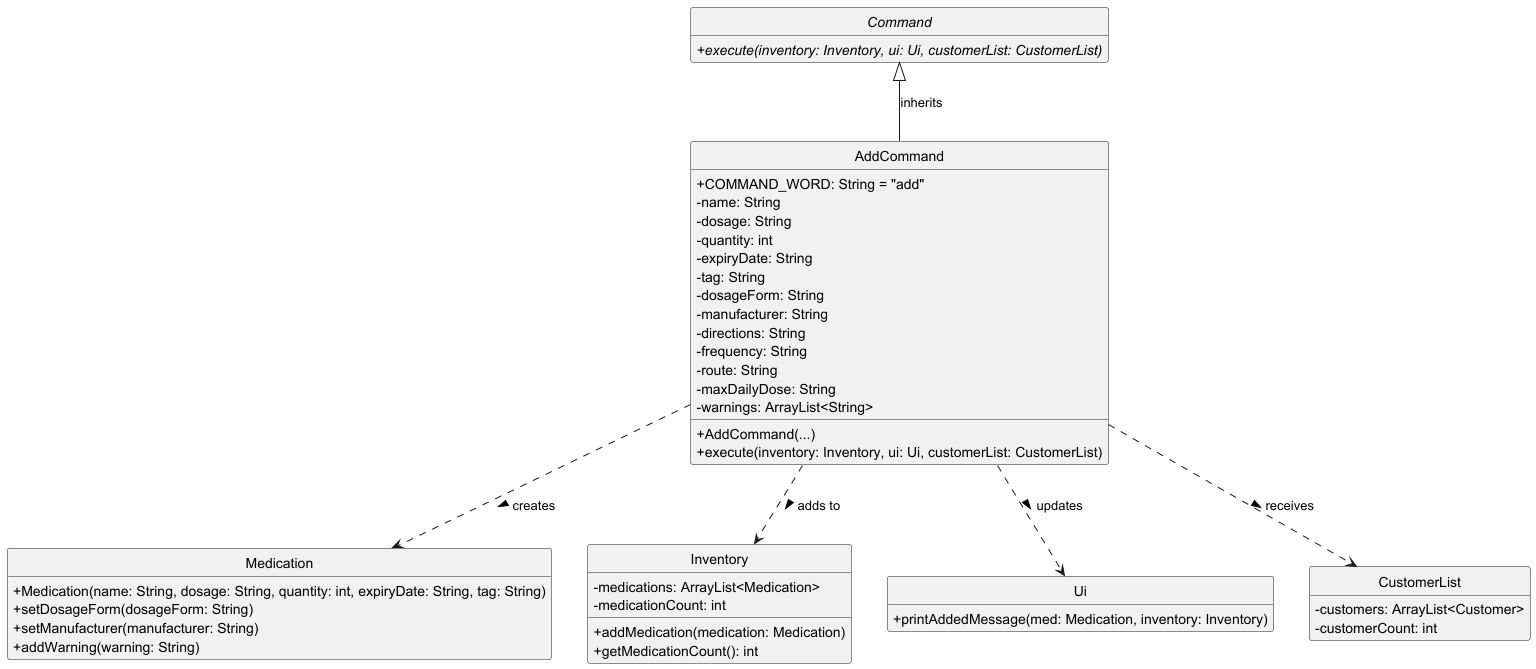
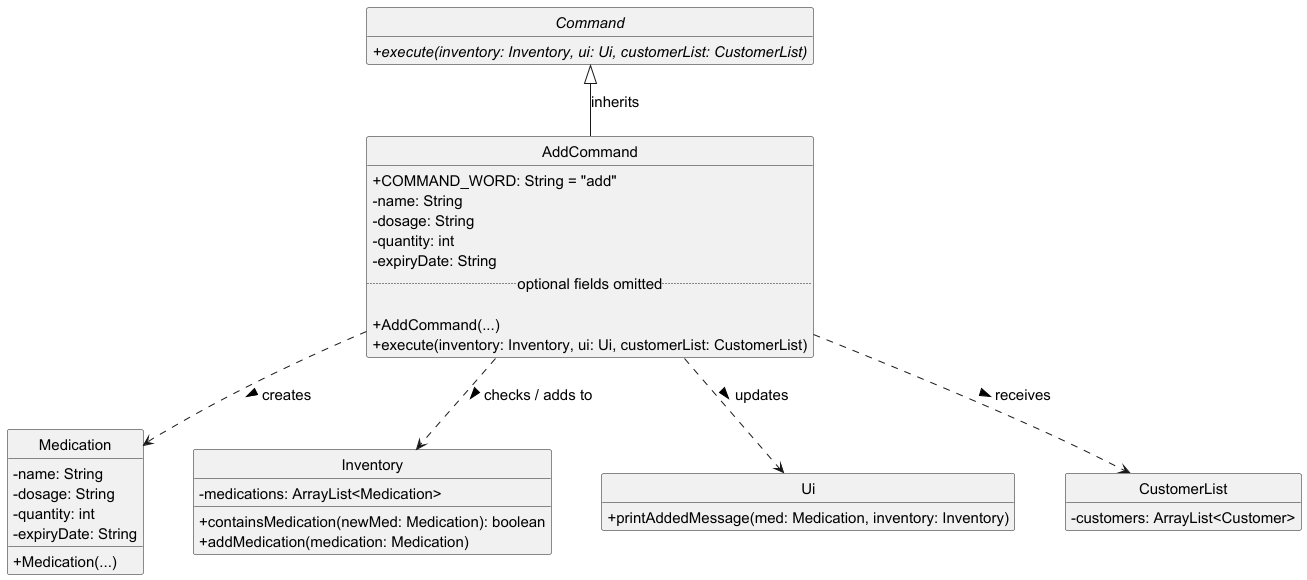
Update DG with finalized details for AddCommand

diff --git a/docs/DeveloperGuide.md b/docs/DeveloperGuide.md
@@ -63,8 +63,6 @@ Beyond the Java Standard Library, no other libraries were used. No code was reus
 4. Run `java -jar pharmatracker.jar` to start the application.
 5. Type a command and press Enter to execute it. Type `help` to see available commands.
 
-> **Note for developers:** Run `.\gradlew run` (Windows) or `./gradlew run` (macOS/Linux) from the project root to launch the app.
-
 ## Design
 
 ### Architecture
@@ -75,17 +73,17 @@ command logic, and saves any modifications to local storage.
 
 The key components of the system are outlined below. 
 
-| Component            | Responsibility                                                                                                                                                      |
-|:---------------------|:--------------------------------------------------------------------------------------------------------------------------------------------------------------------|
-| `PharmaTracker`      | Initializes the application components and manages the main execution loop (read → parse → execute → save).                                                         |
-| `Parser`             | Analyzes raw input strings from the user and translates them into specific, executable `Command` objects.                                                           |
-| `Command` (abstract) | Defines the required `execute()` contract. Concrete command classes (e.g., `AddCommand`, `DispenseCommand`) implement this to interact with the application's data. |
-| `Inventory`          | The in-memory data structure that stores and manages all `Medication` records.                                                                                      |
-| `CustomerList`       | The in-memory data structure that manages registered `Customer` profiles and their dispensing histories.                                                            |
-| `AuthService`        | Manages user registration/login/logout, password verification, and current session state.                                                                            |
-| `RestockAlertService`| Evaluates stock against medication thresholds, tracks active alerts, and maintains alert history.                                                                    |
-| `Storage`            | Handles the serialization and deserialization of data to a local text file (`data/pharmatracker.txt`) to ensure data persistence across sessions.                   |
-| `Ui`                 | Manages all interactions with the user, including reading terminal inputs and printing formatted outputs to the console.                                            |
+| Component            | Responsibility                                                                                                                                                                                                                                                                                                                                      |
+|:---------------------|:----------------------------------------------------------------------------------------------------------------------------------------------------------------------------------------------------------------------------------------------------------------------------------------------------------------------------------------------------|
+| `PharmaTracker`      | Initializes the application components and manages the main execution loop (read → parse → execute → save).                                                                                                                                                                                                                                         |
+| `Parser`             | Analyzes raw input strings from the user. It uses a central `PharmaTrackerParser` to identify the command word, and then delegates the heavy lifting to specific sub-parsers (e.g. `AddCommandParser`) and utility classes (e.g. `MedicationParserUtil`) to safely extract and validate parameters before returning an executable `Command` object. |
+| `Command` (abstract) | Defines the required `execute()` contract. Concrete command classes (e.g., `AddCommand`, `DispenseCommand`) implement this to interact with the application's data.                                                                                                                                                                                 |
+| `Inventory`          | The in-memory data structure that stores and manages all `Medication` records.                                                                                                                                                                                                                                                                      |
+| `CustomerList`       | The in-memory data structure that manages registered `Customer` profiles and their dispensing histories.                                                                                                                                                                                                                                            |
+| `AuthService`        | Manages user registration/login/logout, password verification, and current session state.                                                                                                                                                                                                                                                           |
+| `RestockAlertService`| Evaluates stock against medication thresholds, tracks active alerts, and maintains alert history.                                                                                                                                                                                                                                                   |
+| `Storage`            | Handles the serialization and deserialization of application state across multiple dedicated text files (e.g., `data/pharmatracker.txt` for inventory, `data/customers.txt` for profiles, `data/dispense_log.txt` for logs and `data/users.txt` for accounts) to ensure comprehensive data persistence across sessions.                             |
+| `Ui`                 | Manages all interactions with the user, including reading terminal inputs and printing formatted outputs to the console.                                                                                                                                                                                                                            |
 
 The following component diagram provides a high-level overview of how these components relate to one another:
 
